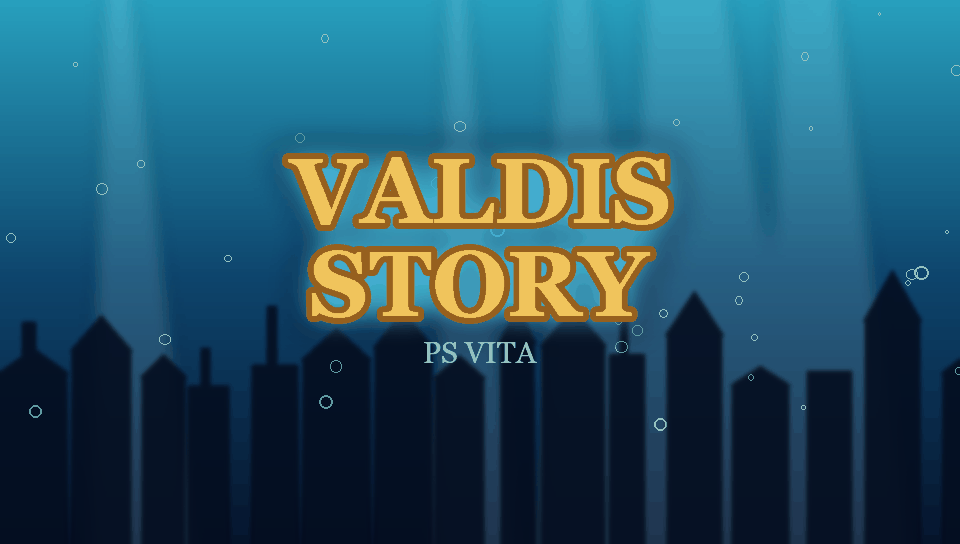
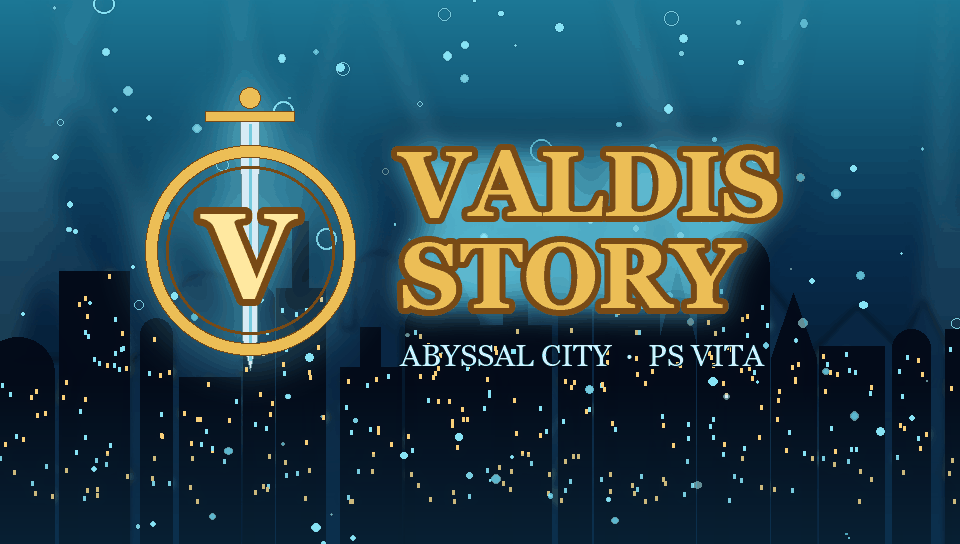
LiveArea nueva (ciudad abisal y emblema) y version + tipo de build selladas en las imagenes al compilar
- tools/make_livearea.py: arte original rehecho; tools/livearea_stamp.py: v0.9.0 AOT / v0.9.0 PUBLICA en icon0,
  pic0, bg y startup (CMake al configurar, desde VS_VERSION_STR); 8 bits con paleta
- 9.13: el aviso de fallos de la sesion anterior incluye los volcados GPUCRASH
- vaot: logs sin %zu (la Vita no lo entiende)

diff --git a/tools/make_livearea.py b/tools/make_livearea.py
@@ -2,6 +2,10 @@
 
 Uso:  python -I tools/make_livearea.py            -> runner/vita/sce_sys/ (icon0, pic0, livearea/contents/*)
 
+Diseño (24-11): una ciudad abisal iluminada en el fondo del mar, rayos de luz desde la superficie, plancton que brilla
+y un emblema dorado (anillo con la "V" y una espada) junto al titulo. La version y el tipo de build (AOT / PUBLICA) no
+van aqui: los sella tools/livearea_stamp.py al compilar (CMake), sobre este arte o sobre el personal.
+
 La Vita exige PNG de 8 bits con paleta (ver docs/LIVEAREA.md):
   icon0.png 128x128 · pic0.png 960x544 · livearea/contents/bg.png 840x500 · startup.png 280x158
 """
@@ -11,8 +15,9 @@ from PIL import Image, ImageDraw, ImageFilter, ImageFont
 ROOT = os.path.join(os.path.dirname(os.path.abspath(__file__)), '..', 'runner', 'vita', 'sce_sys')
 FONT_TITLE = r'C:\Windows\Fonts\georgiab.ttf'   # solo para dibujar el texto; no se distribuye la fuente
 FONT_SUB = r'C:\Windows\Fonts\georgia.ttf'
-DEEP, MID, LIGHT = (6, 18, 46), (14, 70, 110), (40, 160, 190)
-GOLD, GOLD_D = (240, 196, 92), (150, 96, 30)
+TOP, MIDC, DEEP = (28, 120, 150), (8, 46, 78), (2, 8, 22)
+GOLD, GOLD_L, GOLD_D = (236, 190, 86), (255, 232, 160), (120, 74, 22)
+CYAN = (110, 230, 255)
 
 
 def save_indexed(img, path):
@@ -25,91 +30,148 @@ def save_indexed(img, path):
     q.save(path, optimize=True)
 
 
-def sea(w, h, seed=7):
-    """Fondo de mar profundo: degradado, rayos de luz desde arriba, burbujas y una ciudad hundida en silueta."""
+def lerp(a, b, k):
+    return tuple(int(a[i] + (b[i] - a[i]) * k) for i in range(3))
+
+
+def abyss(w, h, seed=7, city=True):
+    """Mar profundo: degradado, rayos de luz, ciudad abisal con ventanas encendidas y plancton brillante."""
+    rnd = random.Random(seed)
     img = Image.new('RGB', (w, h))
-    px = img.load()
+    d = ImageDraw.Draw(img)
     for y in range(h):
         t = y / (h - 1)
-        a = MID if t < 0.5 else DEEP
-        b = LIGHT if t < 0.5 else MID
-        k = 1 - (t / 0.5 if t < 0.5 else (t - 0.5) / 0.5)
-        c = tuple(int(a[i] + (b[i] - a[i]) * k) for i in range(3))
-        for x in range(w):
-            px[x, y] = c
+        c = lerp(TOP, MIDC, t / 0.45) if t < 0.45 else lerp(MIDC, DEEP, (t - 0.45) / 0.55)
+        d.line([(0, y), (w, y)], fill=c)
     img = img.convert('RGBA')
+    # rayos de luz desde la superficie
     rays = Image.new('RGBA', (w, h), (0, 0, 0, 0))
-    d = ImageDraw.Draw(rays)
-    rnd = random.Random(seed)
-    for _ in range(7):
-        x0 = rnd.uniform(0.1, 0.9) * w
-        spread = rnd.uniform(0.05, 0.12) * w
-        d.polygon([(x0 - spread * 0.2, 0), (x0 + spread * 0.2, 0), (x0 + spread, h), (x0 - spread * 0.4, h)], fill=(180, 240, 255, 38))
-    img.alpha_composite(rays.filter(ImageFilter.GaussianBlur(max(2, w // 120))))
-    city = Image.new('RGBA', (w, h), (0, 0, 0, 0))
-    d = ImageDraw.Draw(city)
-    base = int(h * 0.78)
-    x = 0
-    while x < w:   # tejados y torres en silueta
-        bw = rnd.randint(w // 30, w // 12); bh = rnd.randint(h // 14, h // 5)
-        d.rectangle([x, base - bh, x + bw, h], fill=(4, 14, 32, 235))
-        if rnd.random() < 0.6:
-            d.polygon([(x - 2, base - bh), (x + bw // 2, base - bh - bh // 2), (x + bw + 2, base - bh)], fill=(4, 14, 32, 235))
-        if rnd.random() < 0.3:
-            d.rectangle([x + bw // 3, base - bh - bh, x + bw // 3 + max(2, bw // 5), base - bh], fill=(4, 14, 32, 235))
-        x += bw + rnd.randint(0, w // 40)
-    img.alpha_composite(city.filter(ImageFilter.GaussianBlur(max(1, w // 400))))
-    bub = Image.new('RGBA', (w, h), (0, 0, 0, 0))
-    d = ImageDraw.Draw(bub)
-    for _ in range(max(12, w // 25)):
-        r = rnd.uniform(1, w / 140); cx = rnd.uniform(0, w); cy = rnd.uniform(0, h * 0.8)
-        d.ellipse([cx - r, cy - r, cx + r, cy + r], outline=(200, 245, 255, 150), width=max(1, int(r / 3)))
-    img.alpha_composite(bub)
+    dr = ImageDraw.Draw(rays)
+    for _ in range(9):
+        x0 = rnd.uniform(-0.1, 1.1) * w; sp = rnd.uniform(0.04, 0.10) * w; lean = rnd.uniform(-0.25, 0.25) * w
+        dr.polygon([(x0 - sp * 0.15, 0), (x0 + sp * 0.15, 0), (x0 + lean + sp, h * 0.85), (x0 + lean - sp * 0.5, h * 0.85)],
+                   fill=(170, 240, 255, rnd.randint(18, 34)))
+    img.alpha_composite(rays.filter(ImageFilter.GaussianBlur(max(2, w // 90))))
+    if city:
+        # dos planos de ciudad: el lejano (azulado, difuso) y el cercano (oscuro, con ventanas)
+        for plane, (col, blur, hmin, hmax, base_k, lit) in enumerate([((10, 40, 70, 200), max(1, w // 300), 0.10, 0.30, 0.80, 0.25),
+                                                                     ((3, 10, 24, 250), 0, 0.12, 0.42, 0.90, 0.55)]):
+            layer = Image.new('RGBA', (w, h), (0, 0, 0, 0))
+            dl = ImageDraw.Draw(layer)
+            glow = Image.new('RGBA', (w, h), (0, 0, 0, 0))
+            dg = ImageDraw.Draw(glow)
+            base = int(h * base_k)
+            x = -rnd.randint(0, w // 20)
+            while x < w:
+                bw = rnd.randint(max(4, w // 32), max(6, w // 11)); bh = int(h * rnd.uniform(hmin, hmax))
+                top = base - bh
+                dl.rectangle([x, top, x + bw, h], fill=col)
+                kind = rnd.random()
+                if kind < 0.35:   # cupula
+                    dl.ellipse([x, top - bw // 2, x + bw, top + bw // 2], fill=col)
+                elif kind < 0.65:   # aguja
+                    dl.polygon([(x, top), (x + bw // 2, top - bh // 2), (x + bw, top)], fill=col)
+                elif kind < 0.8:   # torre con arco
+                    dl.rectangle([x + bw // 3, top - bh // 3, x + 2 * bw // 3, top], fill=col)
+                if plane == 1 and bw > 8:   # ventanas encendidas
+                    for _ in range(int(bw * bh / 260 * lit) + 1):
+                        wx = rnd.randint(x + 2, x + bw - 3); wy = rnd.randint(top + 3, min(h - 3, base + 10))
+                        c = (255, 210, 120, 255) if rnd.random() < 0.6 else (130, 235, 255, 255)
+                        s = max(1, w // 420)
+                        dl.rectangle([wx, wy, wx + s, wy + s * 2], fill=c)
+                        dg.ellipse([wx - 3 * s, wy - 3 * s, wx + 4 * s, wy + 5 * s], fill=(c[0], c[1], c[2], 70))
+                x += bw + rnd.randint(0, max(1, w // 60))
+            if blur:
+                layer = layer.filter(ImageFilter.GaussianBlur(blur))
+            img.alpha_composite(glow.filter(ImageFilter.GaussianBlur(max(1, w // 200))))
+            img.alpha_composite(layer)
+        # niebla del fondo marino sobre la base de la ciudad
+        fog = Image.new('RGBA', (w, h), (0, 0, 0, 0))
+        df = ImageDraw.Draw(fog)
+        for y in range(int(h * 0.7), h):
+            k = (y - h * 0.7) / (h * 0.3)
+            df.line([(0, y), (w, y)], fill=(20, 90, 120, int(70 * k)))
+        img.alpha_composite(fog)
+    # plancton y burbujas que brillan
+    p = Image.new('RGBA', (w, h), (0, 0, 0, 0))
+    dp = ImageDraw.Draw(p)
+    for _ in range(max(20, w // 9)):
+        r = rnd.uniform(0.6, w / 260 + 0.8); cx = rnd.uniform(0, w); cy = rnd.uniform(0, h)
+        a = rnd.randint(90, 220)
+        dp.ellipse([cx - r, cy - r, cx + r, cy + r], fill=(160, 240, 255, a))
+    for _ in range(max(6, w // 60)):
+        r = rnd.uniform(2, w / 110 + 2); cx = rnd.uniform(0, w); cy = rnd.uniform(0, h * 0.7)
+        dp.ellipse([cx - r, cy - r, cx + r, cy + r], outline=(200, 248, 255, 150), width=max(1, int(r / 4)))
+    img.alpha_composite(p.filter(ImageFilter.GaussianBlur(0.6)))
+    img.alpha_composite(p)
     return img
 
 
-def title(img, cx, cy, size, sub=True):
-    """VALDIS / STORY en dorado con brillo; debajo "PS VITA"."""
+def emblem(img, cx, cy, r):
+    """Anillo dorado con la "V" y una espada vertical detras, con brillo cian."""
+    layer = Image.new('RGBA', img.size, (0, 0, 0, 0))
+    d = ImageDraw.Draw(layer)
+    sw = max(2, r // 9)
+    # espada (hoja, guarda y pomo)
+    blade = [(cx - r * 0.09, cy - r * 1.25), (cx + r * 0.09, cy - r * 1.25), (cx + r * 0.07, cy + r * 0.85), (cx, cy + r * 1.15), (cx - r * 0.07, cy + r * 0.85)]
+    d.polygon(blade, fill=(215, 235, 245, 255), outline=(90, 120, 140, 255))
+    d.line([(cx, cy - r * 1.2), (cx, cy + r * 1.05)], fill=(150, 185, 205, 255), width=max(1, r // 30))
+    d.rectangle([cx - r * 0.42, cy - r * 1.32, cx + r * 0.42, cy - r * 1.22], fill=GOLD, outline=GOLD_D)
+    d.ellipse([cx - r * 0.1, cy - r * 1.55, cx + r * 0.1, cy - r * 1.35], fill=GOLD, outline=GOLD_D)
+    # anillo
+    d.ellipse([cx - r, cy - r, cx + r, cy + r], outline=GOLD_D, width=sw + 2)
+    d.ellipse([cx - r + 1, cy - r + 1, cx + r - 1, cy + r - 1], outline=GOLD, width=sw)
+    d.ellipse([cx - r * 0.8, cy - r * 0.8, cx + r * 0.8, cy + r * 0.8], outline=GOLD_D, width=max(1, sw // 3))
+    # "V"
+    f = ImageFont.truetype(FONT_TITLE, int(r * 1.15))
+    d.text((cx, cy + r * 0.05), 'V', font=f, anchor='mm', fill=GOLD_L, stroke_width=max(1, r // 14), stroke_fill=GOLD_D)
+    glow = layer.filter(ImageFilter.GaussianBlur(max(2, r // 5)))
+    tint = Image.new('RGBA', img.size, CYAN + (0,))
+    tint.putalpha(glow.getchannel('A').point(lambda a: int(a * 0.75)))
+    img.alpha_composite(tint)
+    img.alpha_composite(layer)
+
+
+def title(img, x, y, size, anchor='l', sub=True):
+    """VALDIS STORY en dorado con brillo; debajo ABYSSAL CITY · PS VITA."""
     f = ImageFont.truetype(FONT_TITLE, size)
-    lines = ['VALDIS', 'STORY']
-    glow = Image.new('RGBA', img.size, (0, 0, 0, 0))
-    text = Image.new('RGBA', img.size, (0, 0, 0, 0))
+    fs = ImageFont.truetype(FONT_SUB, max(9, int(size * 0.34)))
+    glow = Image.new('RGBA', img.size, (0, 0, 0, 0)); text = Image.new('RGBA', img.size, (0, 0, 0, 0))
     dg, dt = ImageDraw.Draw(glow), ImageDraw.Draw(text)
-    y = cy - size
-    for s in lines:
-        bb = dt.textbbox((0, 0), s, font=f, stroke_width=max(1, size // 14))
-        x = cx - (bb[2] - bb[0]) // 2 - bb[0]
-        dg.text((x, y), s, font=f, fill=(90, 220, 255, 200), stroke_width=max(2, size // 8), stroke_fill=(90, 220, 255, 200))
-        dt.text((x, y), s, font=f, fill=GOLD, stroke_width=max(1, size // 14), stroke_fill=GOLD_D)
-        y += int(size * 1.02)
-    img.alpha_composite(glow.filter(ImageFilter.GaussianBlur(max(2, size // 6))))
+    a = 'lt' if anchor == 'l' else 'mt'
+    for i, s in enumerate(['VALDIS', 'STORY']):
+        yy = y + int(i * size * 1.0)
+        dg.text((x, yy), s, font=f, anchor=a, fill=CYAN + (200,), stroke_width=max(2, size // 7), stroke_fill=CYAN + (200,))
+        dt.text((x, yy), s, font=f, anchor=a, fill=GOLD, stroke_width=max(1, size // 14), stroke_fill=GOLD_D)
+    img.alpha_composite(glow.filter(ImageFilter.GaussianBlur(max(2, size // 5))))
     img.alpha_composite(text)
     if sub:
-        fs = ImageFont.truetype(FONT_SUB, max(10, size // 3))
         d = ImageDraw.Draw(img)
-        bb = d.textbbox((0, 0), 'PS VITA', font=fs)
-        d.text((cx - (bb[2] - bb[0]) // 2 - bb[0], y + size // 8), 'PS VITA', font=fs, fill=(200, 240, 255))
+        yy = y + int(size * 2.12)
+        d.text((x, yy), 'ABYSSAL CITY  ·  PS VITA', font=fs, anchor=a, fill=(205, 242, 255), stroke_width=1, stroke_fill=(3, 15, 30))
 
 
 def icon():
-    img = sea(128, 128, seed=3)
+    img = abyss(128, 128, seed=3, city=True)
+    shade = Image.new('RGBA', img.size, (0, 0, 0, 0))
+    ImageDraw.Draw(shade).ellipse([14, 10, 114, 110], fill=(0, 8, 20, 120))
+    img.alpha_composite(shade.filter(ImageFilter.GaussianBlur(8)))
+    emblem(img, 64, 60, 36)
     d = ImageDraw.Draw(img)
-    f = ImageFont.truetype(FONT_TITLE, 70)
-    glow = Image.new('RGBA', img.size, (0, 0, 0, 0))
-    ImageDraw.Draw(glow).text((64, 60), 'V', font=f, anchor='mm', fill=(90, 220, 255, 230), stroke_width=7, stroke_fill=(90, 220, 255, 230))
-    img.alpha_composite(glow.filter(ImageFilter.GaussianBlur(5)))
-    d.text((64, 60), 'V', font=f, anchor='mm', fill=GOLD, stroke_width=3, stroke_fill=GOLD_D)
-    fs = ImageFont.truetype(FONT_TITLE, 17)
-    d.text((64, 108), 'STORY', font=fs, anchor='mm', fill=(225, 245, 255), stroke_width=2, stroke_fill=(5, 20, 40))
-    d.rounded_rectangle([2, 2, 125, 125], radius=14, outline=GOLD, width=3)
+    d.rounded_rectangle([1, 1, 126, 126], radius=16, outline=GOLD_D, width=3)
+    d.rounded_rectangle([2, 2, 125, 125], radius=15, outline=GOLD, width=1)
     return img
 
 
 def main():
     save_indexed(icon(), os.path.join(ROOT, 'icon0.png'))
-    bg = sea(840, 500); title(bg, 560, 210, 74); save_indexed(bg, os.path.join(ROOT, 'livearea', 'contents', 'bg.png'))
-    st = sea(280, 158, seed=11); title(st, 140, 70, 34, sub=False); save_indexed(st, os.path.join(ROOT, 'livearea', 'contents', 'startup.png'))
-    pic = sea(960, 544, seed=5); title(pic, 480, 230, 92); save_indexed(pic, os.path.join(ROOT, 'pic0.png'))
+    # LiveArea: la puerta va en el centro; emblema a la izquierda arriba y titulo a la derecha
+    bg = abyss(840, 500, seed=7); emblem(bg, 150, 150, 70); title(bg, 600, 22, 60, anchor='m')
+    save_indexed(bg, os.path.join(ROOT, 'livearea', 'contents', 'bg.png'))
+    st = abyss(280, 158, seed=11); emblem(st, 62, 80, 34); title(st, 118, 34, 34, anchor='l', sub=False)
+    save_indexed(st, os.path.join(ROOT, 'livearea', 'contents', 'startup.png'))
+    pic = abyss(960, 544, seed=5); emblem(pic, 250, 250, 105); title(pic, 400, 150, 92, anchor='l')
+    save_indexed(pic, os.path.join(ROOT, 'pic0.png'))
     print('LiveArea original en', os.path.normpath(ROOT))
 
 

diff --git a/tools/livearea_stamp.py b/tools/livearea_stamp.py
@@ -1,0 +1,82 @@
+"""Sella la version y el tipo de build en el icono y la LiveArea (lo llama CMake al configurar cada build de la Vita).
+
+Uso:  python -I tools/livearea_stamp.py <origen sce_sys> <destino> <version> <AOT|PUBLICA>
+      p. ej.  ... runner/vita/sce_sys build/vita_noaot/sce_art 0.9.0-alpha PUBLICA
+
+- AOT: tu version personal, con el codigo del juego compilado en tu PC (dorado/rojo).
+- PUBLICA: la del Release, sin codigo del juego; la Vita traduce el juego sola (cian).
+Marca las cuatro imagenes (icon0, pic0, bg, startup) y las guarda otra vez como PNG de 8 bits con paleta completa
+(docs/LIVEAREA.md). Si algo falla (sin Pillow, sin fuentes), CMake usa las imagenes sin sellar.
+"""
+import os, sys
+from PIL import Image, ImageDraw, ImageFont
+
+FONTS_B = [r'C:\Windows\Fonts\arialbd.ttf',   # cifras claras (con Georgia el 0 parece una o)
+           '/usr/share/fonts/truetype/dejavu/DejaVuSans-Bold.ttf', '/usr/share/fonts/TTF/DejaVuSans-Bold.ttf']
+STYLE = {   # fondo de la etiqueta, borde, texto
+    'AOT': ((120, 24, 20), (240, 190, 86), (255, 236, 170), 'AOT', 'Versión AOT (compilada en tu PC)'),
+    'PUBLICA': ((8, 60, 90), (110, 230, 255), (225, 250, 255), 'PÚBLICA', 'Versión pública (la Vita traduce el juego)'),
+}
+
+
+def font(size):
+    for p in FONTS_B:
+        if os.path.exists(p):
+            return ImageFont.truetype(p, size)
+    return ImageFont.load_default()
+
+
+def save_indexed(img, path):
+    q = img.convert('RGB').quantize(256, method=Image.Quantize.MEDIANCUT, dither=Image.Dither.FLOYDSTEINBERG)
+    pal = q.getpalette()[:768]
+    q.putpalette(pal + [0] * (768 - len(pal)))
+    os.makedirs(os.path.dirname(path), exist_ok=True)
+    q.save(path, optimize=True)
+
+
+def pill(img, text, size, x, y, anchor, kind, pad=None):
+    """Etiqueta redondeada con texto; anchor 'rb' (abajo a la derecha), 'lb', 'rt'..."""
+    bgc, edge, fg = STYLE[kind][:3]
+    d = ImageDraw.Draw(img)
+    f = font(size)
+    bb = d.textbbox((0, 0), text, font=f)
+    tw, th = bb[2] - bb[0], bb[3] - bb[1]
+    px, py = pad if pad else (max(3, size // 2), max(2, size // 4))
+    w, h = tw + 2 * px, th + 2 * py
+    x0 = x - w if anchor[0] == 'r' else x
+    y0 = y - h if anchor[1] == 'b' else y
+    layer = Image.new('RGBA', img.size, (0, 0, 0, 0))
+    dl = ImageDraw.Draw(layer)
+    dl.rounded_rectangle([x0, y0, x0 + w, y0 + h], radius=h // 2, fill=bgc + (235,), outline=edge + (255,), width=max(1, size // 10))
+    dl.text((x0 + px - bb[0], y0 + py - bb[1]), text, font=f, fill=fg + (255,))
+    img.alpha_composite(layer)
+
+
+def main():
+    src, dst, ver, kind = sys.argv[1], sys.argv[2], sys.argv[3], sys.argv[4].upper()
+    if kind not in STYLE:
+        sys.exit('tipo: AOT o PUBLICA')
+    short, long_ = STYLE[kind][3], STYLE[kind][4]
+    vshort = 'v' + ver.split('-')[0]                       # v0.9.0
+    files = {'icon0.png': None, 'pic0.png': None, 'livearea/contents/bg.png': None, 'livearea/contents/startup.png': None}
+    for rel in files:
+        files[rel] = Image.open(os.path.join(src, rel)).convert('RGBA')
+    # burbuja: banda abajo con version y tipo
+    ic = files['icon0.png']
+    band = Image.new('RGBA', ic.size, (0, 0, 0, 0))
+    ImageDraw.Draw(band).rectangle([4, 104, 123, 123], fill=STYLE[kind][0] + (225,))
+    ic.alpha_composite(band)
+    d = ImageDraw.Draw(ic)
+    d.text((64, 114), f'{vshort} {short}', font=font(13 if kind == 'AOT' else 12), anchor='mm', fill=STYLE[kind][2])
+    d.line([(4, 104), (123, 104)], fill=STYLE[kind][1], width=1)
+    # LiveArea, arranque y boton Iniciar
+    pill(files['livearea/contents/bg.png'], f'v{ver}  ·  {long_}', 17, 830, 490, 'rb', kind)
+    pill(files['pic0.png'], f'v{ver}  ·  {long_}', 18, 944, 530, 'rb', kind)
+    pill(files['livearea/contents/startup.png'], f'{vshort} {short}', 13, 274, 152, 'rb', kind)
+    for rel, im in files.items():
+        save_indexed(im, os.path.join(dst, rel))
+    print(f'LiveArea sellada: {vshort} {kind} -> {os.path.normpath(dst)}')
+
+
+if __name__ == '__main__':
+    main()

diff --git a/runner/src/vaot.cpp b/runner/src/vaot.cpp
@@ -460,7 +460,7 @@ static NativeFn armInstall(const ArmOut& A) {
             logf("[vaot] sin memoria ejecutable (0x%08X): se sigue sin codigo ARM\n", (unsigned)b); gArmBroken = true; return nullptr;
         }
         gCodeBlock = b; gCodeBase = (uint8_t*)base; gCodeUsed = 0; gCodeCap = 1u << 20;
-        logf("[vaot] bloque de codigo ARM %zu MB\n", (gCodeTotal >> 20) + 1);
+        logf("[vaot] bloque de codigo ARM %u MB\n", (unsigned)((gCodeTotal >> 20) + 1));   // la Vita no entiende %zu
         gCodeTotal += gCodeCap;
     }
     uint8_t* dst = gCodeBase + gCodeUsed;
@@ -554,7 +554,7 @@ bool vaotRun(Game& g, int codeId, Ctx& ctx, Value& out) {
         gProgs[codeId] = build(g.d, g.d.codes[codeId], A); gState[codeId] = 1; gBuilt++;
         gOpsBytes += gProgs[codeId]->ops.size() * sizeof(Op);
         armPrepare(g, codeId, *gProgs[codeId]);
-        if (gBuilt % 500 == 0) logf("[vaot] %zu codigos traducidos (%zu KB)\n", gBuilt, gOpsBytes / 1024);
+        if (gBuilt % 500 == 0) logf("[vaot] %u codigos traducidos (%u KB)\n", (unsigned)gBuilt, (unsigned)(gOpsBytes / 1024));
     }
     if (gState[codeId] != 1) return false;
     out = run(*gProgs[codeId], g, ctx);
@@ -575,7 +575,7 @@ void vaotBuildAll(Game& g) {
         }
         if (gState[id] == 1) { ops += gProgs[id]->ops.size(); ins += g.d.codes[id].ins.size(); }
     }
-    logf("[vaot] %zu codigos traducidos, %zu al interprete; %zu instrucciones -> %zu operaciones (%zu KB), %.0f ms\n",
-         gBuilt, gRejected, ins, ops, ops * sizeof(Op) / 1024, nowMsVaot() - t0);
+    logf("[vaot] %u codigos traducidos, %u al interprete; %u instrucciones -> %u operaciones (%u KB), %.0f ms\n",
+         (unsigned)gBuilt, (unsigned)gRejected, (unsigned)ins, (unsigned)ops, (unsigned)(ops * sizeof(Op) / 1024), nowMsVaot() - t0);
 }
 }  // namespace vs

diff --git a/runner/src/main_vita.cpp b/runner/src/main_vita.cpp
@@ -385,11 +385,14 @@ int main(int, char**) {
             SceIoDirent e;
             while (sceIoDread(d, &e) > 0) {
                 std::string n = e.d_name;
-                if (n.compare(0, 9, "psp2core-") != 0 || n.find("eboot.bin") == std::string::npos) continue;
+                // eboot.bin: fallo del programa; GPUCRASH: fallo de la GPU (9.13: la consola se apaga; puede venir de otra app)
+                bool gpu = n.find("GPUCRASH") != std::string::npos;
+                if (n.compare(0, 9, "psp2core-") != 0 || (n.find("eboot.bin") == std::string::npos && !gpu)) continue;
                 list += n + "\n";
                 if (seen.find(n) == std::string::npos) {
                     nuevos++;
-                    vs::logf("[cuelgue] la Vita guardo un volcado de un fallo del juego: ux0:data/%s (%04d-%02d-%02d %02d:%02d). Envialo para revisarlo\n",
+                    vs::logf("[cuelgue] la Vita guardo un volcado de %s: ux0:data/%s (%04d-%02d-%02d %02d:%02d). Envialo para revisarlo\n",
+                             gpu ? "un fallo de la GPU (puede ser de otra app)" : "un fallo del juego",
                              n.c_str(), e.d_stat.st_mtime.year, e.d_stat.st_mtime.month, e.d_stat.st_mtime.day, e.d_stat.st_mtime.hour, e.d_stat.st_mtime.minute);
                 }
             }

diff --git a/docs/LIVEAREA.md b/docs/LIVEAREA.md
@@ -73,6 +73,21 @@ Si el icono del `.exe` es más pequeño que 128 px, se escala con `LANCZOS`; si 
 
 Nunca se suben al repo ni se adjuntan a un Release.
 
+## 3b. Versión y tipo de build en las imágenes (Valdis, 24-11)
+
+Para saber en la burbuja y en la LiveArea qué se está jugando o instalando, CMake sella las cuatro imágenes al configurar
+cada build de la Vita con `tools/livearea_stamp.py <origen> <destino> <versión> <AOT|PUBLICA>`:
+
+| Build | Sello | Dónde |
+|---|---|---|
+| Personal con AOT (`build/vita`) | `v0.9.0 AOT`, rojo y dorado; "Versión AOT (compilada en tu PC)" | banda abajo en `icon0`, etiqueta abajo a la derecha en `bg`, `pic0` y `startup` |
+| Pública (`build/vita_noaot`, la del Release) | `v0.9.0 PÚBLICA`, cian; "Versión pública (la Vita traduce el juego)" | igual |
+
+La versión sale de `VS_VERSION_STR` en `runner/CMakeLists.txt` (junto a `VITA_VERSION`): al cambiarla, CMake reconfigura y
+vuelve a sellar. El resultado va a `build/<build>/sce_art/` (8 bits con paleta, comprobado). Sin Python + Pillow se usan
+las imágenes sin sellar. El arte original se rehízo el 24-11 (`tools/make_livearea.py`): ciudad abisal iluminada,
+emblema dorado con la "V" y una espada, y el título VALDIS STORY · ABYSSAL CITY · PS VITA.
+
 ## 4. Comprobar en la consola
 
 1. Instalar el VPK (si el juego ya estaba instalado, la LiveArea se actualiza al reinstalar).
